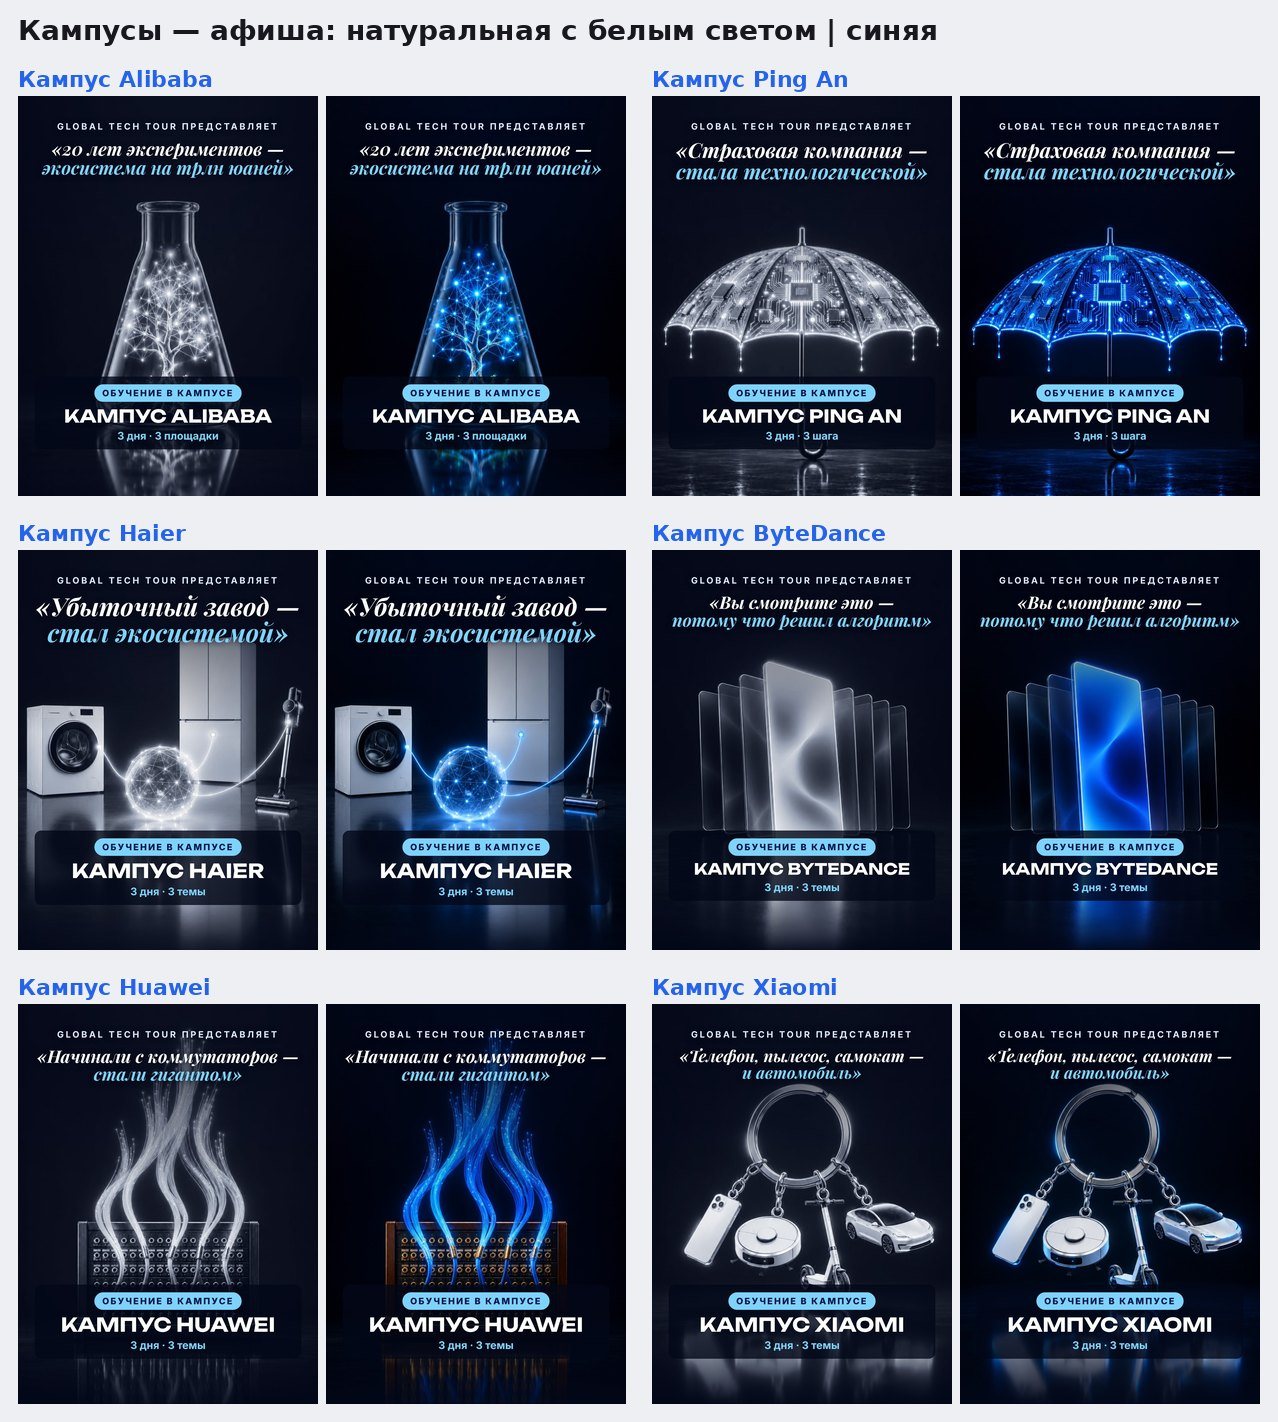
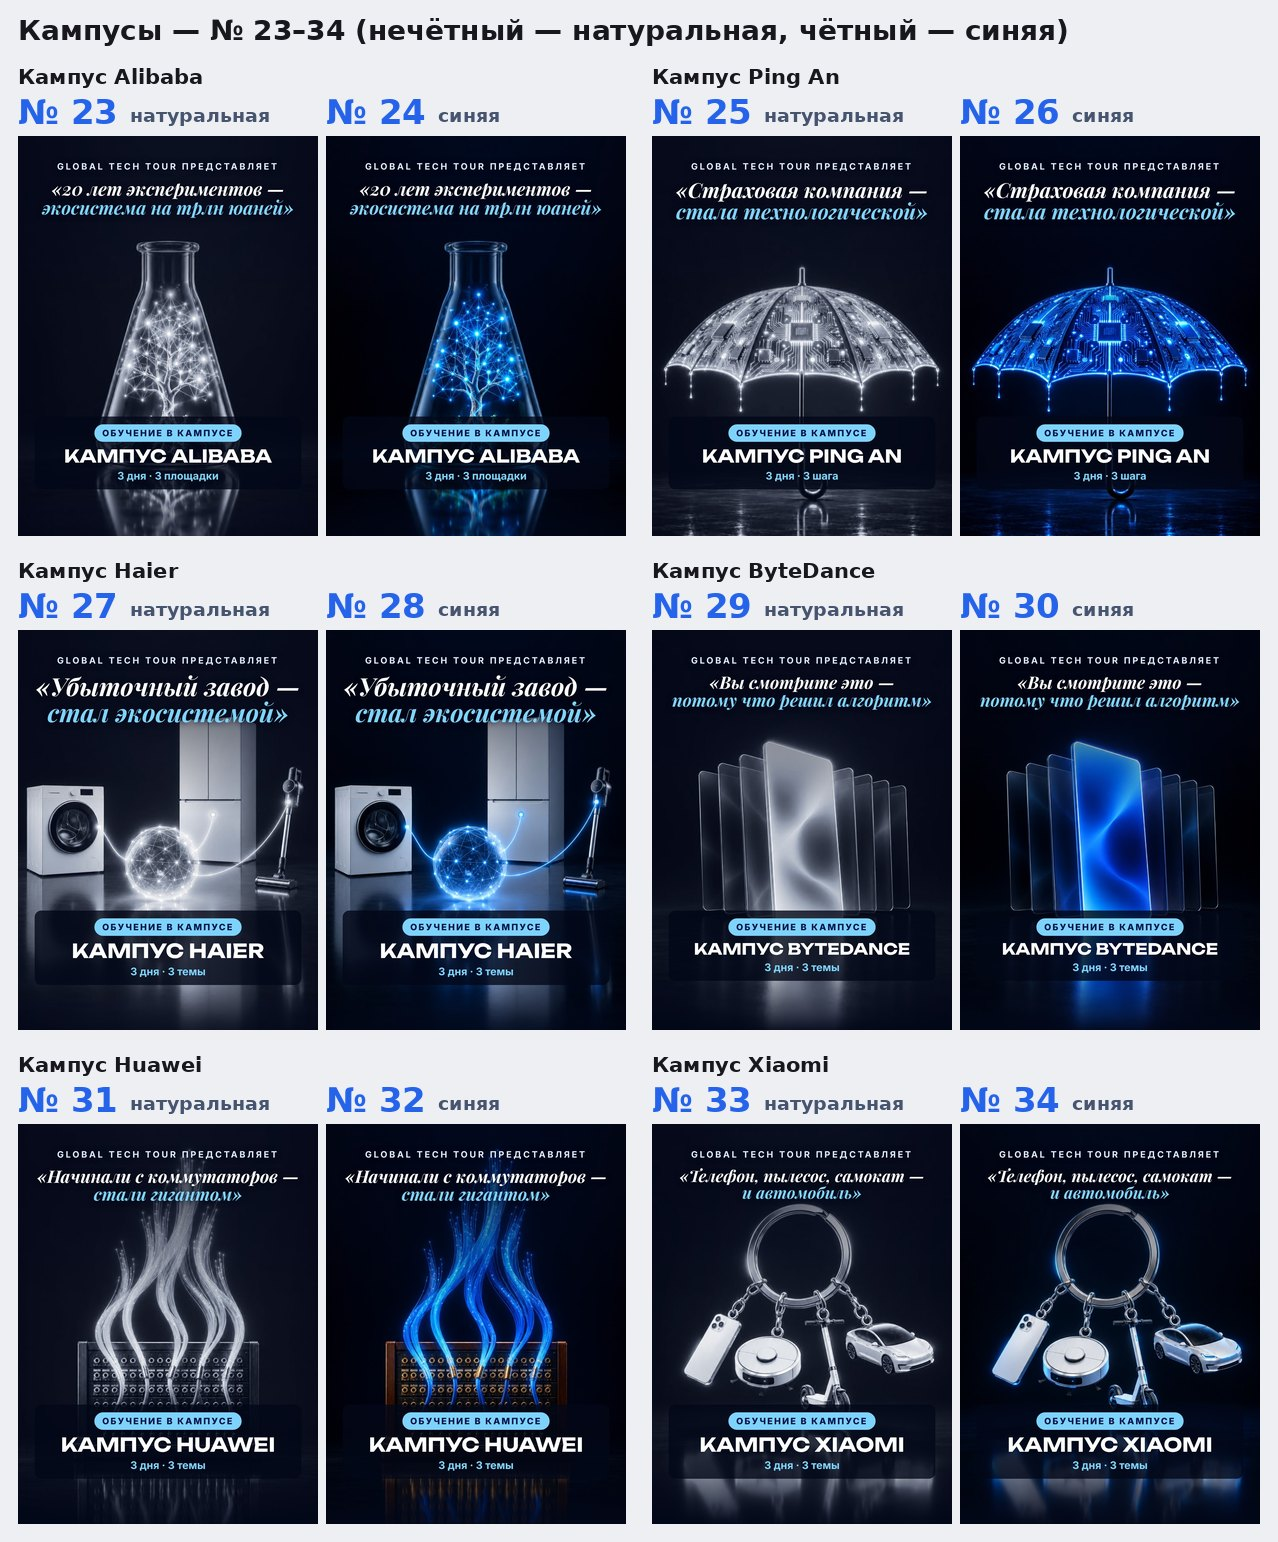
Обложки-предметы: номера № 1–34 на листах и таблица номер → программа, цвет, ролик
Claude-Session: https://claude.ai/code/session_01GWbvgKxue3PjjbbHEP4BVJ

Changed region(s): [[0.0, 0.0, 1.0, 0.6498], [0.0, 0.6807, 1.0, 0.9902]]

diff --git a/reels-studio/CLAUDE.md b/reels-studio/CLAUDE.md
@@ -860,6 +860,9 @@ half… No text, no letters, no numbers, no logos» — без надписей 
 γ 1,15 → карта градиента #040816 → #96A0B2 → белый). Плашка афиши — с 1250 px; у каждой программы свой `photoY` (подъём предмета
 над плашкой, низ кадра уходит в цвет фона): props `…-predmety-afisha.json` (кадр 2N — натуральная, 2N+1 — синяя), листы
 `finished-videos/обложки/предметы-афиша-туры-<дата>.jpg` и `предметы-афиша-кампусы-<дата>.jpg` — обрезка 3:4, как в сетке профиля.
+Варианты пронумерованы (пользователь 30.10.2026: «пронумеруй, чтобы я просто говорил номер, и ты вставил обложку в видео»): № 1–34,
+нечётный — натуральная, чётный — синяя, № = кадр + 1; номер → программа, цвет, ролик (`props/<ролик>.json`) и картинка —
+`props/covers/варианты/2026-10-30-predmety-nomera.json`. Пользователь называет номер — рендерю этот кадр и ставлю первой секундой ролика.
 
 ## Reels из карусели (решение пользователя 12.10.2026: «А можешь еще сразу публиковать карусель в Рилс?»)
 
